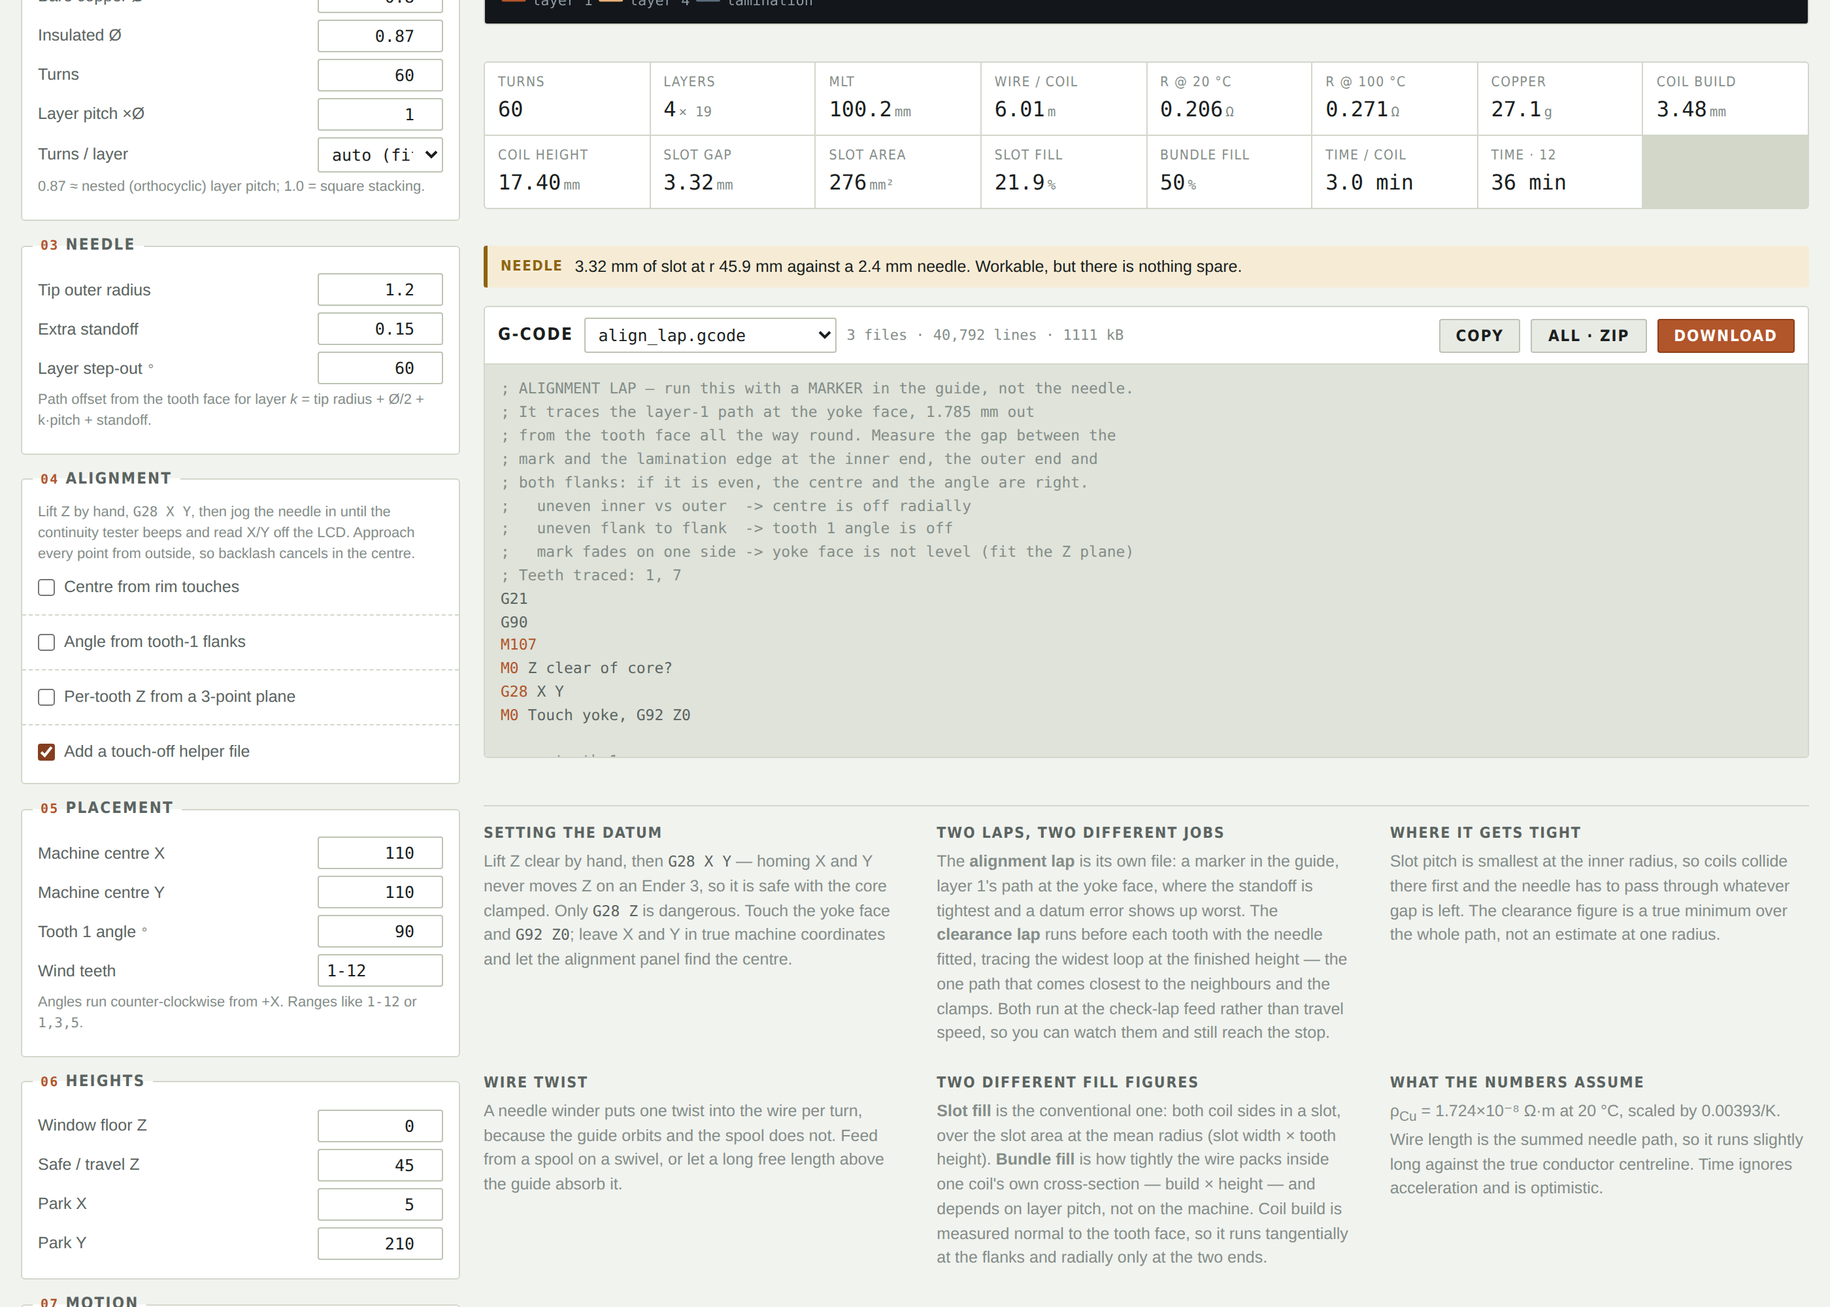
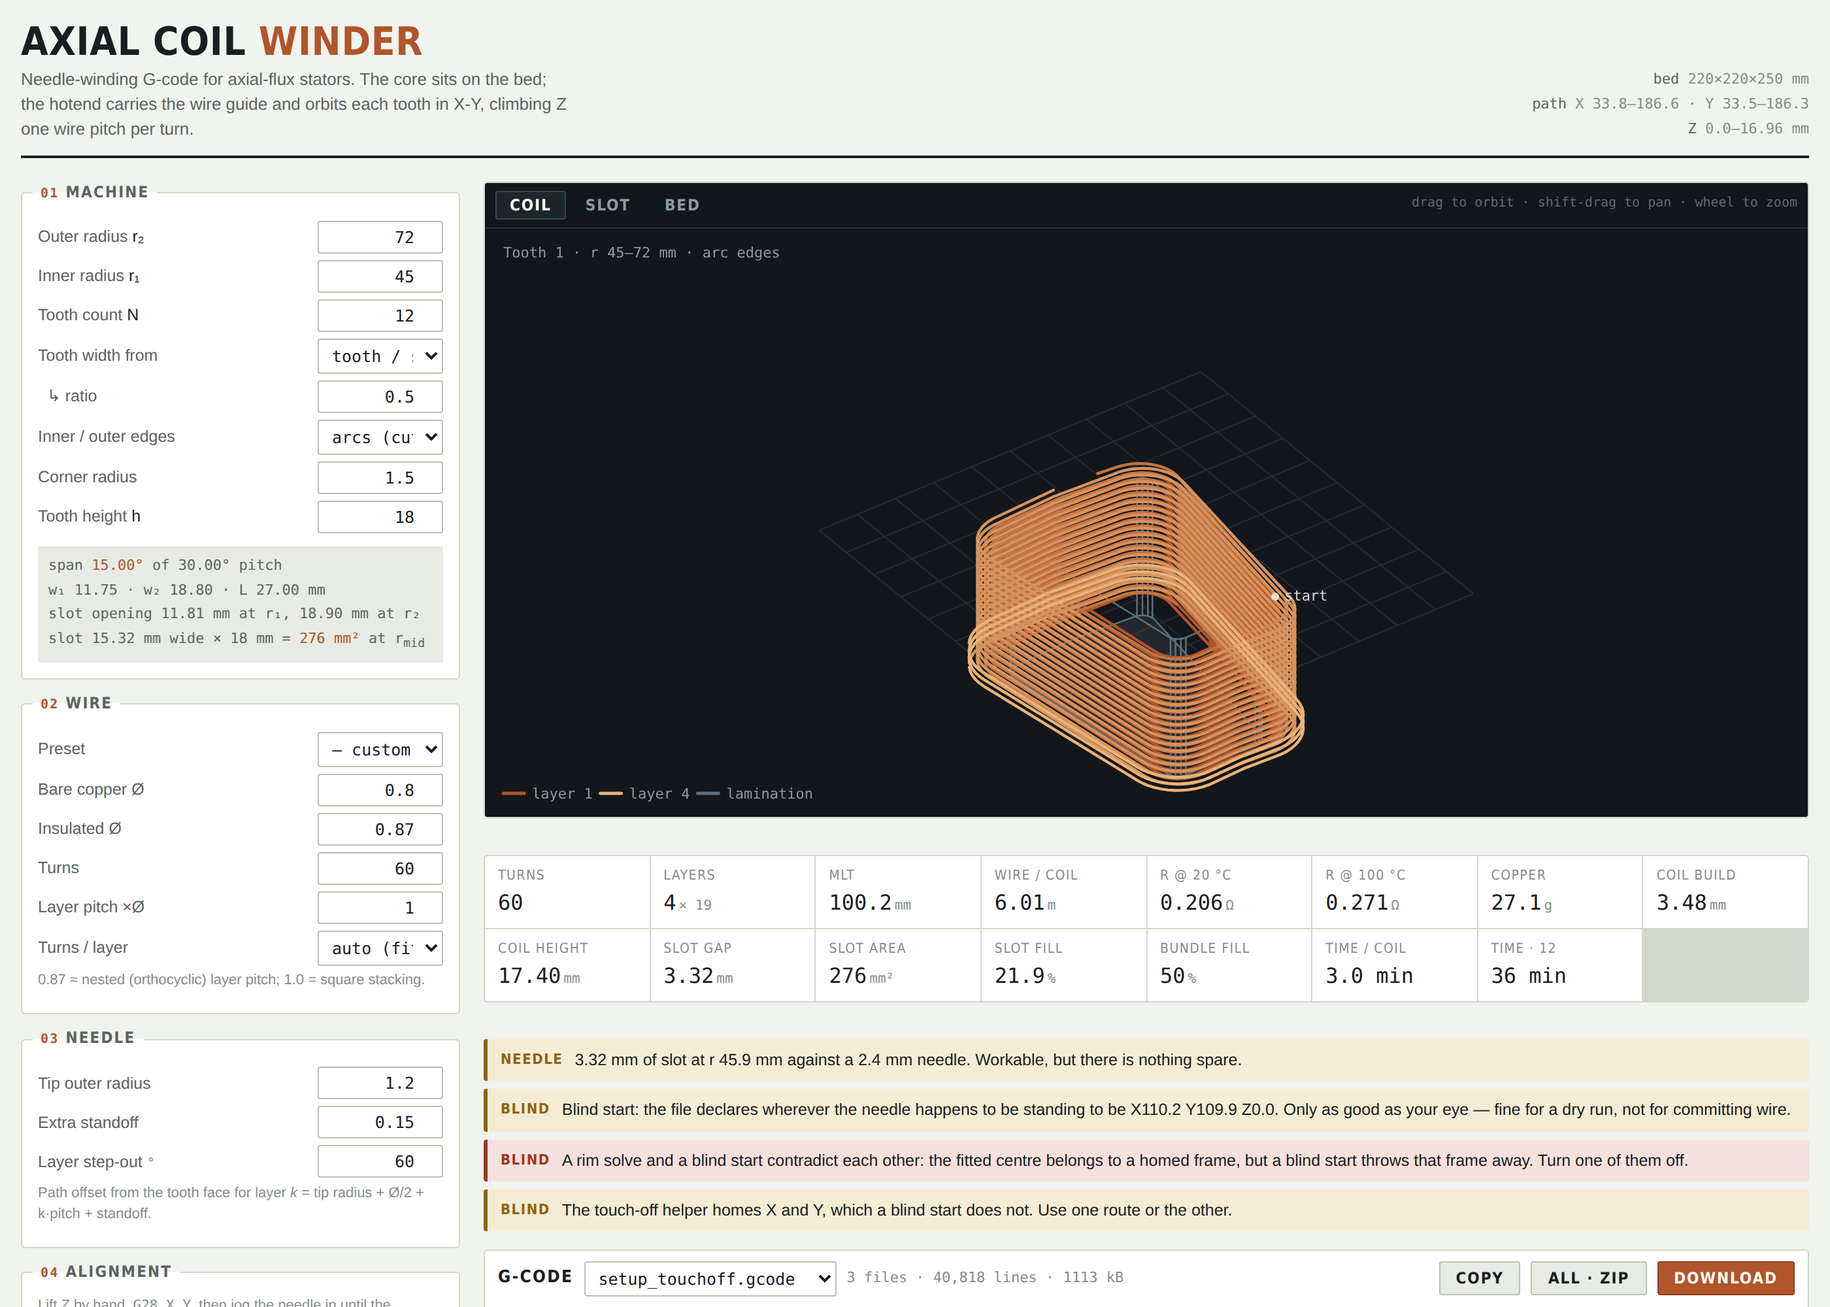
blind placement and dimensions definitions

diff --git a/index.html b/index.html
@@ -195,7 +195,7 @@ pre.gcode i{color:var(--ink3);font-style:normal}
     <div class="row"><label for="dOd">Insulated Ø</label><input type="number" id="dOd" value="0.87" step="0.01" min="0.05"></div>
     <div class="row"><label for="turns">Turns</label><input type="number" id="turns" value="60" step="1" min="1"></div>
     <div class="row"><label for="layerK">Layer pitch ×Ø</label><input type="number" id="layerK" value="1" step="0.01" min="0.5" max="1.2"></div>
-    <div class="row"><label for="tplMode">Turns / layer</label><select id="tplMode"><option value="auto">auto (fit window)</option><option value="man">manual</option></select></div>
+    <div class="row"><label for="tplMode">Turns / layer</label><select id="tplMode"><option value="auto">auto (fit tooth height)</option><option value="man">manual</option></select></div>
     <div class="row" id="tplRow" hidden><label for="tplMan">&nbsp;&nbsp;↳ per layer</label><input type="number" id="tplMan" value="19" step="1" min="1"></div>
     <p class="sub">0.87 ≈ nested (orthocyclic) layer pitch; 1.0 = square stacking.</p>
   </fieldset>
@@ -248,10 +248,11 @@ pre.gcode i{color:var(--ink3);font-style:normal}
 
   <fieldset>
     <legend><span class="n">06</span>Heights</legend>
-    <div class="row"><label for="z0">Window floor Z</label><input type="number" id="z0" value="0" step="0.1"></div>
+    <div class="row"><label for="z0">Tooth base Z</label><input type="number" id="z0" value="0" step="0.1"></div>
     <div class="row"><label for="zSafe">Safe / travel Z</label><input type="number" id="zSafe" value="45" step="1"></div>
     <div class="row"><label for="parkX">Park X</label><input type="number" id="parkX" value="5" step="1"></div>
     <div class="row"><label for="parkY">Park Y</label><input type="number" id="parkY" value="210" step="1"></div>
+    <p class="sub">Z is the needle tip. Touch the surface the coil sits on, <code>G92 Z0</code> there, and leave this at 0 — tooth height is measured up from it.</p>
   </fieldset>
 
   <fieldset>
@@ -269,7 +270,7 @@ pre.gcode i{color:var(--ink3);font-style:normal}
 
   <fieldset>
     <legend><span class="n">08</span>Output</legend>
-    <div class="row"><label for="startSeq">Start sequence</label><select id="startSeq"><option value="home">home X/Y (Z by hand)</option><option value="none">no homing — G92 only</option></select></div>
+    <div class="row"><label for="startSeq">Start sequence</label><select id="startSeq"><option value="home">home X/Y (Z by hand)</option><option value="blind">blind — start at yoke centre</option><option value="none">no homing — G92 only</option></select></div>
     <label class="chk"><input type="checkbox" id="optDry" checked> Clearance lap before each tooth</label>
     <label class="chk"><input type="checkbox" id="optAlign" checked> Alignment lap file (marker, once)</label>
     <div class="row"><label for="alignWhich">&nbsp;&nbsp;↳ trace</label><select id="alignWhich">
@@ -724,6 +725,17 @@ function clearance(p,geo){
 /* ============================================================
    G-code
    ============================================================ */
+// Pressing Stop makes Marlin inject EVENT_GCODE_SD_ABORT ("G28XY" on stock
+// Creality), which sweeps at the current height. Every file says so.
+const ABORT_NOTE=[
+`;---------------------------------------------------------------`,
+`; TO STOP SAFELY — pause, raise Z clear, THEN press Stop.`,
+`;   Marlin injects G28 X Y on abort (EVENT_GCODE_SD_ABORT) and`,
+`;   sweeps the head sideways at whatever height it is at, which`,
+`;   drags the needle through the core. The power switch is the`,
+`;   only stop that runs no script at all.`,
+];
+
 function feeds(p,geo){
   const mlt=geo.pathLen/p.turns;
   const F=Math.max(30,Math.round(p.rateMode==='rpm'?p.rateVal*mlt:p.rateVal));
@@ -784,7 +796,21 @@ function header(p,geo,fd,st,cl,which){
   const now=new Date().toISOString().slice(0,16).replace('T',' ');
   const st0=placer(p,which??p.teeth[0])(geo.path[0].x,geo.path[0].y);
   const wm=$('wMode').value;
-  const start = p.startSeq==='home'
+  const start = p.startSeq==='blind'
+    ? [`; SET-UP — BLIND START. Nothing is homed, nothing is measured.`,
+       `;   1. Clamp the yoke anywhere on the bed, turned by eye so that`,
+       `;      tooth 1 points ${p.ang0.toFixed(1)} deg CCW from +X, as the Bed view`,
+       `;      shows it. Everything else follows from tooth 1.`,
+       `;   2. Remove the nozzle, fit the guide.`,
+       `;   3. Jog the needle tip to the CENTRE of the yoke, down on`,
+       `;      the surface the coils will sit on.`,
+       `;   4. Start this file from there. It pauses once to let you`,
+       `;      confirm, then declares that point to be`,
+       `;        X${f3(p.cx)} Y${f3(p.cy)} Z${f3(p.z0)}`,
+       `;      and every move follows from it.`,
+       `;   Only as accurate as your eye — good enough for a dry run,`,
+       `;   not for committing wire. Use the touch-off route for that.`]
+    : p.startSeq==='home'
     ? [`; SET-UP`,
        `;   1. Remove the nozzle, fit the guide, thread the wire.`,
        `;   2. Raise Z by hand until the needle clears the core.`,
@@ -794,7 +820,7 @@ function header(p,geo,fd,st,cl,which){
        `;      and send  G92 Z${f3(p.z0)}  before resuming.`]
     : [`; SET-UP — nothing is homed.`,
        `;   Jog the needle tip to  X${f3(st0[0])} Y${f3(st0[1])}  at the`,
-       `;   floor of the winding window, then send:`,
+       `;   base of the tooth, then send:`,
        `;     G92 X${f3(st0[0])} Y${f3(st0[1])} Z${f3(p.z0)}`];
   return [
 `;===============================================================`,
@@ -819,11 +845,13 @@ p.plane?`;         per-tooth Z from a 3-point plane`:null,
 `; FEED    ${fd.F} mm/min straight, ${fd.Fc} corners  (~${(fd.F/fd.mlt).toFixed(1)} turns/min)`,
 `;---------------------------------------------------------------`,
 ...start,
+...ABORT_NOTE,
 `;===============================================================`,
 `G21`,
 `G90`,
 `M107`,
 ...(p.startSeq==='home'?[`M0 Z clear of core?`,`G28 X Y`,`M0 Touch yoke, G92 Z0`]:[]),
+...(p.startSeq==='blind'?[`M0 Tip at yoke centre?`,`G92 X${f3(p.cx)} Y${f3(p.cy)} Z${f3(p.z0)}`]:[]),
 ...(p.limits?[
 `M201 X${Math.round(p.accel)} Y${Math.round(p.accel)}`,
 `M204 P${Math.round(p.accel)} T${Math.round(p.accel)}`,
@@ -867,8 +895,14 @@ function alignFile(p,geo){
 `;   uneven flank to flank  -> tooth 1 angle is off`,
 `;   mark fades on one side -> yoke face is not level (fit the Z plane)`,
 `; Teeth traced: ${which.join(', ')}`,
+...(p.startSeq==='blind'?[
+`; BLIND START — jog the tip to the CENTRE of the yoke, down on the`,
+`; surface the coils sit on, then run this. Drawing the layer-1 path`,
+`; is the quickest way to see whether your eyeballed angle is right.`]:[]),
+...ABORT_NOTE,
 `G21`,`G90`,`M107`,
 ...(p.startSeq==='home'?[`M0 Z clear of core?`,`G28 X Y`,`M0 Touch yoke, G92 Z0`]:[]),
+...(p.startSeq==='blind'?[`M0 Tip at yoke centre?`,`G92 X${f3(p.cx)} Y${f3(p.cy)} Z${f3(p.z0)}`]:[]),
 ];
   for(const i of which){
     const map=placer(p,i), z=p.z0+p.markZ+zOffset(p,i);
@@ -903,6 +937,7 @@ function helperFile(p){
 `;      the target; jog X/Y in until the continuity tester beeps,`,
 `;      read X and Y off the LCD, then resume.`,
 `;   3. Type the readings into the alignment panel.`,
+...ABORT_NOTE,
 `G21`,`G90`,`M0 Z at mid-rim?`,`G28 X Y`];
   const back=(ux,uy)=>[`G91`,`G0 X${f3(ux*10)} Y${f3(uy*10)} F1200`,`G90`];
   const nPts=Math.max(3,p.fit?p.fit.res.length:5);
@@ -977,6 +1012,11 @@ function checks(p,geo,fd,cl,bbox){
       add('warn','needle',`${cl.gap.toFixed(2)} mm of slot at r ${cl.at.toFixed(1)} mm against a ${needle.toFixed(1)} mm needle. Workable, but there is nothing spare.`);
     else
       add('ok','clearance',`${cl.gap.toFixed(2)} mm of slot remains at r ${cl.at.toFixed(1)} mm — ${(cl.gap-needle).toFixed(2)} mm clear of the needle.`);
+  }
+  if(p.startSeq==='blind'){
+    add('warn','blind',`Blind start: the file declares wherever the needle happens to be standing to be X${p.cx.toFixed(1)} Y${p.cy.toFixed(1)} Z${p.z0.toFixed(1)}. Only as good as your eye — fine for a dry run, not for committing wire.`);
+    if(p.fit) add('bad','blind','A rim solve and a blind start contradict each other: the fitted centre belongs to a homed frame, but a blind start throws that frame away. Turn one of them off.');
+    if(p.helper) add('warn','blind','The touch-off helper homes X and Y, which a blind start does not. Use one route or the other.');
   }
   if(p.fit && p.fit.maxRes>0.15)
     add('warn','datum',`Rim fit residual is ${p.fit.maxRes.toFixed(3)} mm — one touch is probably off, or the rim is not round.`);
@@ -1322,8 +1362,21 @@ function drawBed(w,h){
     const c=map(0,p.rMid);
     label(X(c[0]),Y(c[1])+3,String(i),'#c9d2d8','center');
   }
+  // tooth-1 heading — what you line the yoke up against when placing it by eye
+  const a1=p.ang0*D2R, rr=p.rOut+16;
+  const cxp=X(p.cx), cyp=Y(p.cy);
+  const tx=X(p.cx+Math.cos(a1)*rr), ty=Y(p.cy+Math.sin(a1)*rr);
+  ctx.strokeStyle='#d7834f'; ctx.lineWidth=1.5; ctx.setLineDash([6,4]);
+  ctx.beginPath(); ctx.moveTo(cxp,cyp); ctx.lineTo(tx,ty); ctx.stroke(); ctx.setLineDash([]);
+  const aa=Math.atan2(ty-cyp,tx-cxp), ah=8;
+  ctx.beginPath(); ctx.moveTo(tx,ty);
+  ctx.lineTo(tx-ah*Math.cos(aa-0.38), ty-ah*Math.sin(aa-0.38));
+  ctx.lineTo(tx-ah*Math.cos(aa+0.38), ty-ah*Math.sin(aa+0.38));
+  ctx.closePath(); ctx.fillStyle='#d7834f'; ctx.fill();
+  label(tx+(Math.cos(aa)>=0?9:-9), ty+4, `tooth 1 · ${p.ang0.toFixed(1)}°`, '#d7834f', Math.cos(aa)>=0?'left':'right');
+
   ctx.fillStyle='#c9d2d8'; ctx.beginPath(); ctx.arc(X(p.cx),Y(p.cy),2.5,0,TAU); ctx.fill();
-  label(X(p.cx)+6,Y(p.cy)-5,`${p.cx.toFixed(2)}, ${p.cy.toFixed(2)}`,'#8d9aa4');
+  label(X(p.cx),Y(p.cy)+17,`${p.cx.toFixed(2)}, ${p.cy.toFixed(2)}`,'#8d9aa4','center');
   ctx.fillStyle='#9aa6ae'; ctx.beginPath(); ctx.arc(X(p.parkX),Y(p.parkY),3,0,TAU); ctx.fill();
   label(X(p.parkX)+7,Y(p.parkY)+3,'park','#8d9aa4');
   label(14,22,`Bed ${p.bedX} × ${p.bedY} mm · ${p.teeth.length} of ${p.nTeeth} teeth selected`,'#8d9aa4');

diff --git a/docs/MANUAL.md b/docs/MANUAL.md
@@ -119,6 +119,9 @@ Instead: home X and Y normally, measure where the core actually is, and type two
 > [!IMPORTANT]
 > `G28 X` and `G28 Y` do **not** move the Z axis on an Ender 3 — the gantry sweeps sideways at whatever height it is already at. With Z raised clear by hand first, homing X and Y is completely safe with the core clamped. Only `G28 Z` is dangerous, and the generator never emits it.
 
+> [!CAUTION]
+> **That precondition is exactly what aborting violates.** Pressing *Stop print* makes Marlin inject `EVENT_GCODE_SD_ABORT`, which Creality's stock build defines as `"G28XY"`. Mid-wind the needle is down in the slot, so that home sweeps it sideways through the lamination and the coil. See [stopping safely](#stopping-safely).
+
 ### The procedure
 
 ![Alignment panel](images/panel-alignment.png)
@@ -134,6 +137,18 @@ Set *Rim radius you touch* to the radius of the feature you are actually touchin
 Worth doing: repeat on the tooth roughly opposite. If the two disagree by more than a few tenths of a degree, your *centre* is off, not your angle.
 
 **Z plane.** Zero Z on the first yoke touch, then read Z at two more teeth around 120° apart. An Ender 3 bed is commonly out by 0.2–0.4 mm across an 85 mm circle, and the yoke face may not be flat either. Against a 0.87 mm wire pitch that is a third of a turn — enough that the first layer climbs unevenly on one side of the machine. The fitted plane is applied as a per-tooth Z offset, and each tooth's block in the G-code is annotated with its correction.
+
+### Blind placement
+
+There is a shortcut for when you just want to watch the thing move. Set **Start sequence** to `blind` and skip measuring entirely:
+
+1. Clamp the yoke anywhere on the bed, turned by eye so tooth 1 points the way the **Bed view** shows — it draws a dashed arrow from the centre through tooth 1, labelled with the angle.
+2. Jog the needle tip to the **centre of the yoke**, down on the surface the coils sit on.
+3. Run the file from there. It pauses once to let you confirm, then emits `G92 X<cx> Y<cy> Z<z0>` — declaring that point to be the machine centre — and every move follows from it.
+
+Nothing is homed and nothing is measured, so accuracy is whatever your eye managed. That is fine for a dry run, a clearance check, or confirming the path looks sane; it is not good enough to commit wire. The tool flags a warning whenever this mode is selected.
+
+It pairs well with the alignment lap: a marker in the guide plus a blind start draws the layer-1 path immediately, which is the fastest way to see whether your eyeballed angle was close. The rim solve, by contrast, contradicts a blind start — the fitted centre belongs to a homed frame that a blind start throws away — and the tool will tell you so.
 
 **Verify.** Marker in the guide, run `align_lap.gcode`, measure the gap with calipers at four places. It should equal the layer-1 standoff — 1.785 mm at the default needle and wire — all the way round.
 
@@ -197,9 +212,11 @@ Machine centre X/Y, tooth 1 angle, and which teeth to wind (`1-12`, or `1,3,5`).
 
 ### 06 — Heights
 
+![Heights panel](images/panel-heights.png)
+
 | Field | Meaning |
 |---|---|
-| **Window floor Z** | Z of the yoke face, where the first turn lands. Normally 0 after touching off |
+| **Tooth base Z** | Z of the surface the coil sits on — the yoke face at the foot of the tooth, where the first turn lands. Normally 0, because you touch off there and send `G92 Z0`. Tooth height is measured up from it |
 | **Safe / travel Z** | Height for all repositioning moves |
 | **Park X / Y** | Where the head goes when the job finishes |
 
@@ -223,7 +240,7 @@ Machine centre X/Y, tooth 1 angle, and which teeth to wind (`1-12`, or `1,3,5`).
 
 | Option | Effect |
 |---|---|
-| **Start sequence** | `home X/Y` emits the lift-prompt, `G28 X Y` and a Z touch-off prompt. `no homing` emits neither and gives you a `G92` line to send by hand |
+| **Start sequence** | `home X/Y` emits the lift prompt, `G28 X Y` and a Z touch-off prompt. `blind` declares wherever the needle is standing to be the machine centre — see [blind placement](#blind-placement). `no homing` emits neither and gives you a `G92` line to send by hand |
 | **Clearance lap** | One slow lap of the widest loop before each tooth |
 | **Alignment lap file** | A separate marker file — see [section 8](#8-the-two-check-laps) |
 | **LCD progress** | `M117` messages for tooth and layer |
@@ -329,6 +346,30 @@ Both run at the check-lap feed rather than travel speed, so that you can watch t
 | `M400` | Wait for the buffer to drain before parking |
 | `M300` | Completion beep |
 
+### Stopping safely
+
+Nothing in the generated file runs after an abort — Marlin flushes the queue. What runs instead comes from the firmware, and it is the one real hazard left in this workflow.
+
+`Configuration_adv.h` carries:
+
+```c
+#define EVENT_GCODE_SD_ABORT "G28XY"   // G-code to run on Stop Print (e.g., "G28XY" or "G27")
+```
+
+(named `EVENT_GCODE_SD_STOP` before Marlin 2.0). Creality ships that default, so **Stop print** injects `G28 X Y`. Homing X and Y is safe when Z is clear — that is the whole basis of the start sequence — but mid-wind the needle is down in the slot at 0–17 mm, and the gantry will sweep to the left and front limits at that height, dragging the needle through the lamination and whatever is already wound.
+
+Three ways to handle it:
+
+| | |
+|---|---|
+| **Pause → raise → stop** | Pause from the LCD, jog Z up 20 mm from the menu, *then* Stop. The abort's `G28 X Y` is harmless once the needle is clear. Costs nothing, needs no reflash — make it the habit |
+| **Power switch** | The only stop that runs no script at all. Losing machine position costs nothing here: the core stays clamped, and you re-home X/Y with Z raised before resuming anyway |
+| **Reflash** | Marlin accepts `\n`-separated commands, so `"G91\nG1 Z15 F600\nG90\nG28XY"` lifts before homing. Commenting the macro out entirely leaves the head where it stopped, which for winding is the better default |
+
+Behaviour varies between builds — there are open Marlin issues where the abort G-code does not fire at all on some LCD configurations. Test whatever you change, with the bed clear.
+
+The file header repeats this as a `TO STOP SAFELY` block, so it is in front of whoever is standing at the machine.
+
 ### What is deliberately absent
 
 - **No `G28 Z`, ever.** It would drive the guide into the lamination.
@@ -390,6 +431,8 @@ One quirk worth knowing: when the tool runs as a hosted artifact on claude.ai, t
 **Backlash** inflates the fitted rim radius. Approach every touch from outside so it cancels in the centre, and treat the fitted radius as a diagnostic rather than a measurement.
 
 **Time estimates are optimistic.** Acceleration is ignored, and on a ~100 mm loop with four corners the real average can be half the commanded feedrate.
+
+**Aborting is a firmware hazard, not a software one.** Stock Marlin homes X and Y on *Stop print*, and mid-wind that sweeps the needle through the core. No generated file can prevent it, because abort flushes the queue. Pause, raise Z, then stop — or use the power switch. See [stopping safely](#stopping-safely).
 
 **No probing.** `G38.2` would need `G38_PROBE_TARGET`, which stock Creality firmware does not compile. A Marlin rebuild or Klipper would allow it; the manual touch-off is the fallback and is accurate to about 0.02 mm with a continuity beeper.
 

diff --git a/README.md b/README.md
@@ -40,6 +40,11 @@ A single self-contained HTML file. No build step, no dependencies, no server —
 > [!WARNING]
 > **Never send `G28 Z` with the core on the bed.** The Z endstop on an Ender 3 is a fixed switch on the left upright, so the needle will reach the lamination long before the switch trips. The generator never emits it. Homing X and Y is safe — neither moves the Z axis.
 
+> [!CAUTION]
+> **Do not press *Stop print* while winding.** Marlin injects a homing move on abort — `EVENT_GCODE_SD_ABORT`, which Creality ships as `"G28XY"` — and it sweeps the needle sideways *at whatever height it is at*. Mid-wind that drags it straight through the lamination and the coil.
+>
+> Instead: **pause, raise Z clear, then stop.** The power switch is the only stop that runs no script at all — and losing machine position costs nothing here, since the core stays clamped and you re-home X/Y with Z raised anyway.
+
 **1 — Open the tool.** Open `index.html` in any browser. Everything runs locally; nothing is uploaded.
 
 **2 — Enter your stator.** Panel 01: inner radius, outer radius, tooth count, and how the tooth width is defined. Panel 02: wire diameter and turns.
@@ -51,6 +56,8 @@ A single self-contained HTML file. No build step, no dependencies, no server —
 **5 — Verify with a marker.** Put a fine marker in the guide and run `align_lap.gcode`. It draws layer 1's path at the yoke face. Measure the gap between the mark and the lamination edge at the inner end, the outer end and both flanks — if it is even, your centre and angle are right.
 
 **6 — Wind.** Fit the needle, touch off Z on the yoke face, and run the coil file. It traces one slow clearance lap around each tooth before committing wire.
+
+> **Just want to watch it move?** Set *Start sequence* to **blind** and skip steps 4 and 5. Clamp the yoke anywhere, turned by eye to match the arrow in the Bed view, jog the needle to the centre of the yoke at the tooth base, and run. The file declares that point to be the machine centre and works from there — eyeball accuracy, right for a dry run, not for wire.
 
 ---
 
